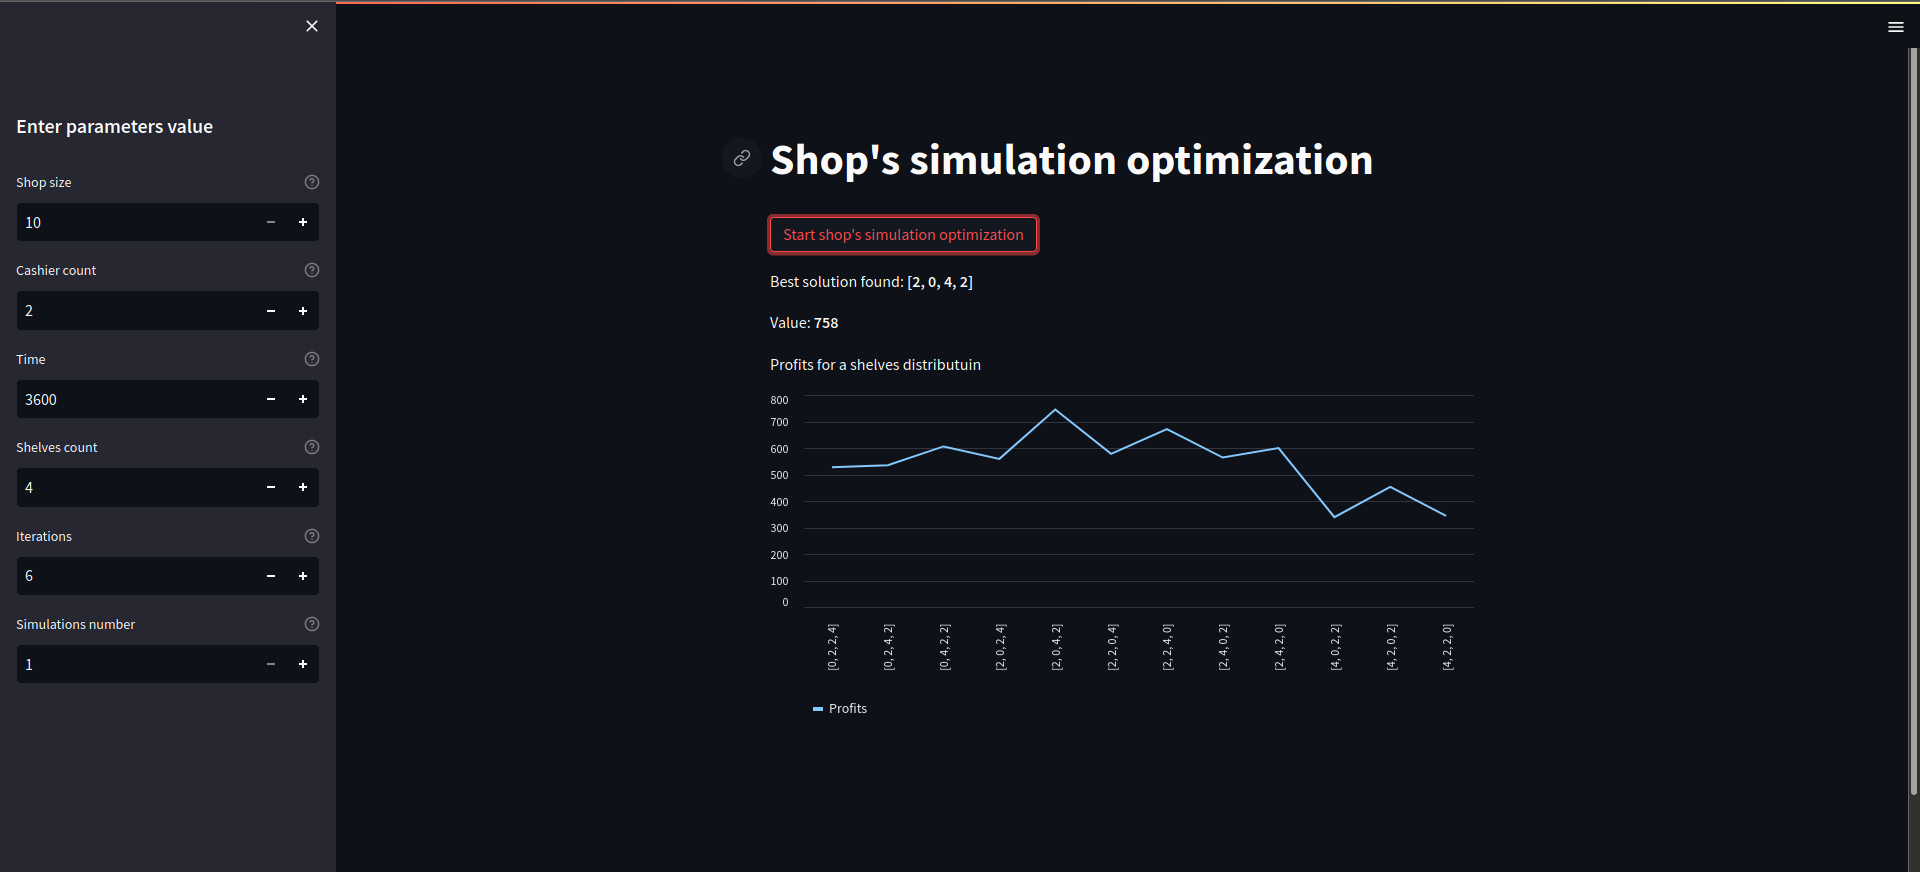
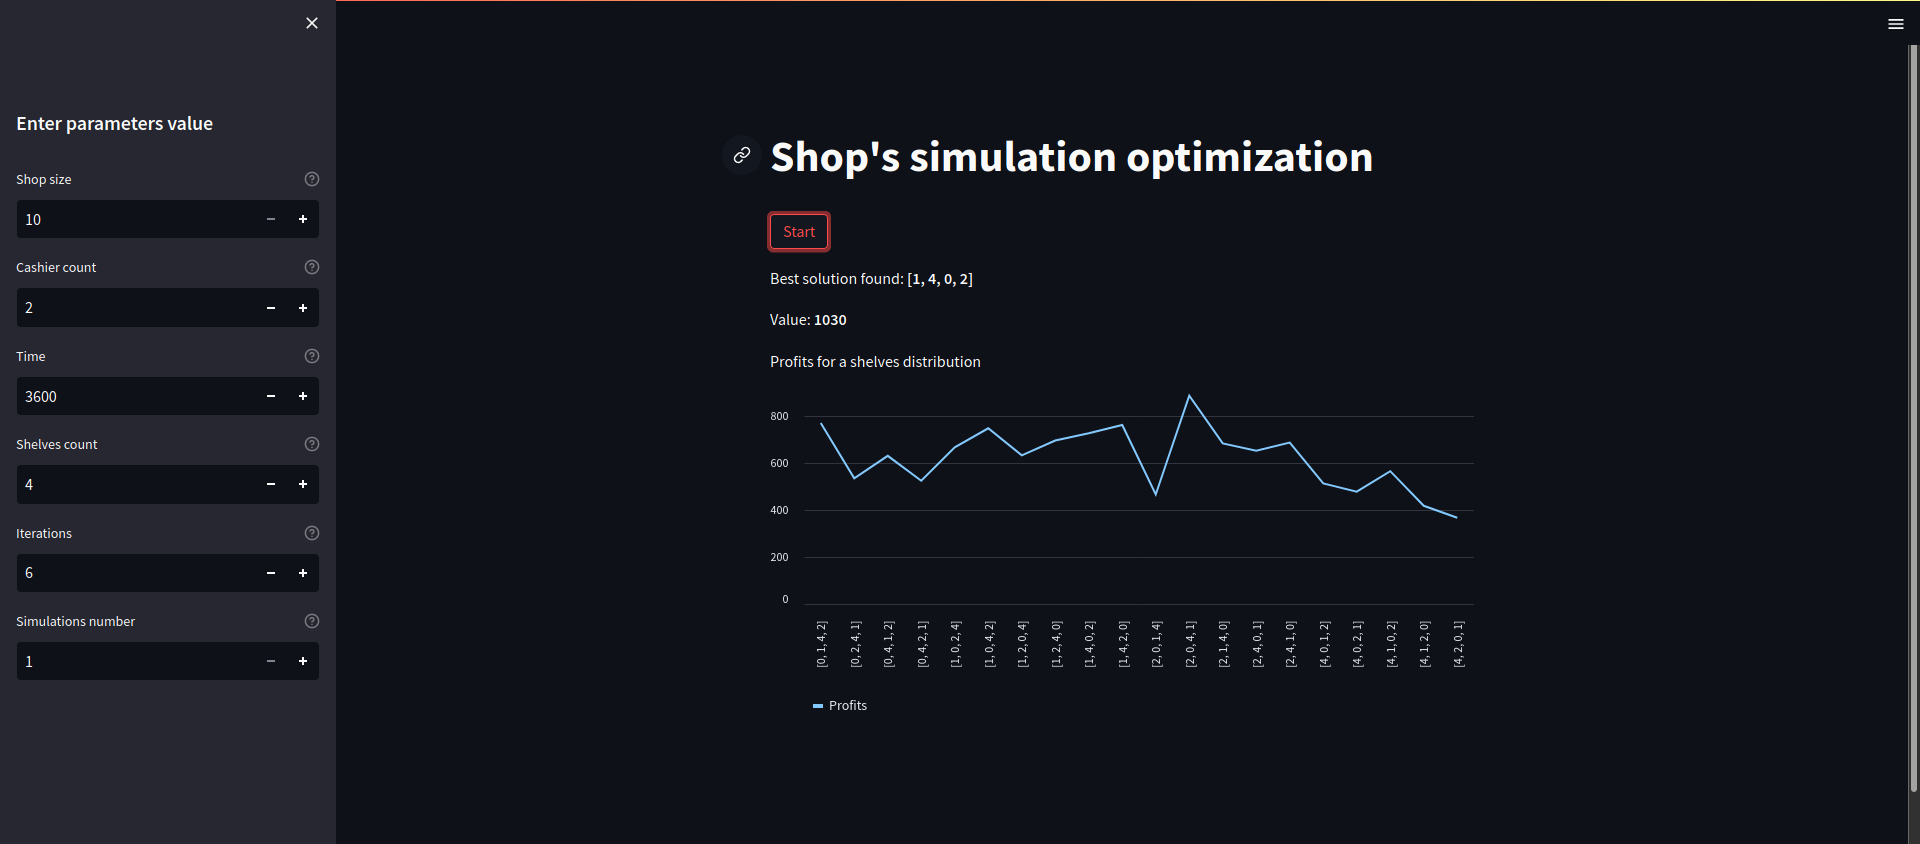
Fix typo

diff --git a/simulation_app.py b/simulation_app.py
@@ -12,8 +12,6 @@ from main import main
 st.markdown("######")
 st.title("Shop's simulation optimization")
 
-peolple_at_section = [[0]]
-tips_in_time = [0]
 
 st.sidebar.header("Enter parameters value")
 
@@ -35,27 +33,24 @@ sim_num = st.sidebar.number_input("Simulations number", min_value=1, step=1, hel
 solutions_fit = []
 results = ""
 
-if st.button("Start shop's simulation optimization"):
+if st.button("Start"):
     results, solutions_fit = main(shop_size, num_cashiers, time, shelves_count, iterations, sim_num)
 
     for i in range(len(solutions_fit)):
         distribution = solutions_fit[i].keys()
         profits = solutions_fit[i].values()
     
-    #reg_result = re.compile('[\S]')
 
-    #results = reg_result.search(str(results)
+        st.markdown(f'Best solution found: **{results[0][0]}**')
+        st.markdown(f'Value: **{results[0][1]}**')
 
-    st.markdown(f'Best solution found: **{results[0][0]}**')
-    st.markdown(f'Value: **{results[0][1]}**')
-
-    st.write("Profits for a shelves distributuin")
+        st.write("Profits for a shelves distribution")
     
-    profits = pd.DataFrame({
-    'Shelves distribution': distribution,
-    'Profits': profits
-    })
+        profits = pd.DataFrame({
+        'Shelves distribution': distribution,
+        'Profits': profits
+        })
 
-    profits = profits.set_index('Shelves distribution')
+        profits = profits.set_index('Shelves distribution')
 
-    st.line_chart(profits)
+        st.line_chart(profits)
